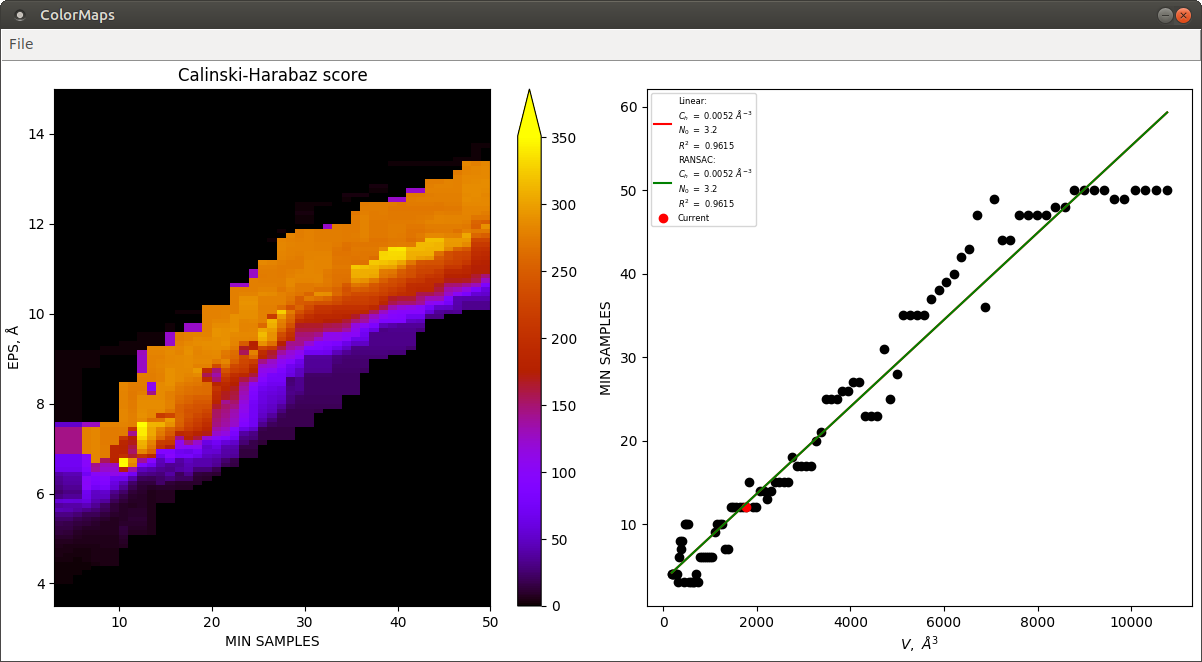
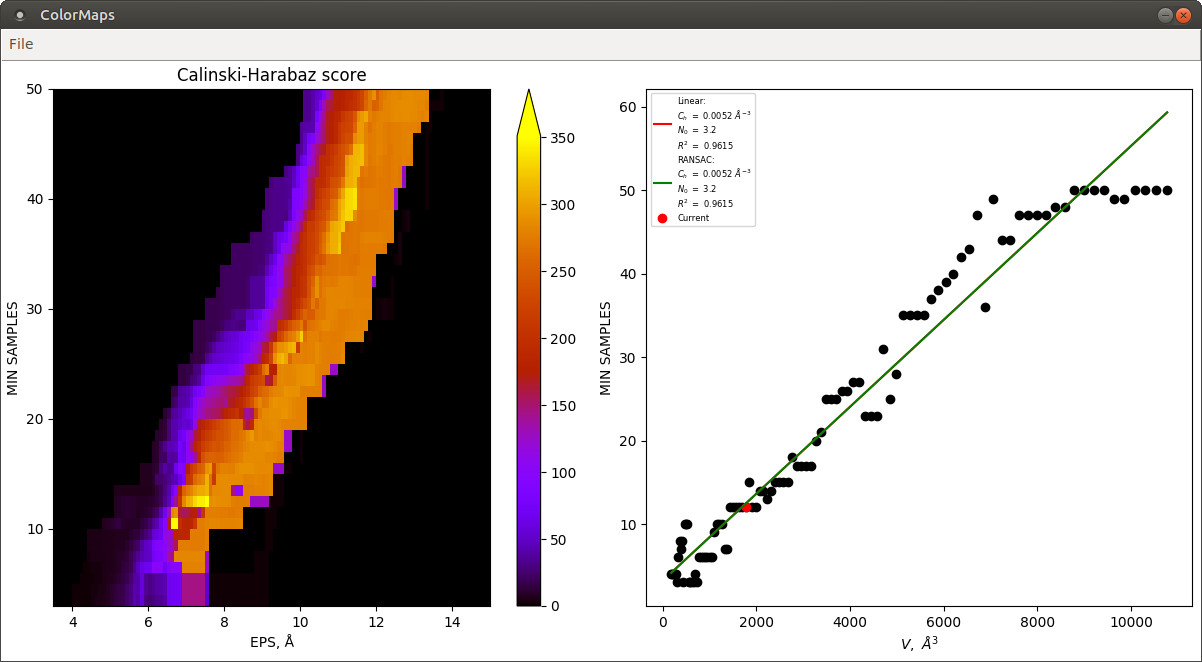
1) Auto select repr_cube or repr_cube_alt (based on R^2) 2) Swap axies on colormap 3) Cores content automatic display (on tkgui)

diff --git a/hydrocluster/ui/tkgui.py b/hydrocluster/ui/tkgui.py
@@ -208,7 +208,6 @@ class TkGui(tk.Tk):
         m.add_cascade(label='Options', menu=om)
         om.add_command(label='Plot grid', command=self.grid_set)
         om.add_command(label='Plot legend', command=self.legend_set)
-        om.add_command(label='Cores content', command=self.resi)
         om.add_command(label='Autotune colormap', command=self.colormap)
         om.add_command(label='Clear LOG', command=self.clean_txt)
         om.add_command(label='Open PyMol', command=self.open_pymol)
@@ -235,7 +234,7 @@ class TkGui(tk.Tk):
             if not askyesno('Warning!', "Very slow function!\nA you sure?"):
                 self.run_flag = False
                 return
-        if auto:
+        if auto and not load_state:
             try:
                 min_eps = float(self.ent_min_eps.get())
                 if min_eps < 0:
@@ -330,7 +329,7 @@ class TkGui(tk.Tk):
                 self.cls.n_clusters, self.cls.score, eps, min_samples, self.cls.metrics_name[self.cls.metric]))
             self.sca1.set(eps)
             self.sca2.set(min_samples)
-        else:
+        elif not auto and not load_state:
             self.cls.noise_filter = noise_filter
             eps = self.sca1.get()
             min_samples = self.sca2.get()
@@ -347,11 +346,20 @@ class TkGui(tk.Tk):
             showwarning('Warning!', 'Percent of noise = {:.2f} %'.format(self.cls.noise_percent()))
         self.tx.configure(state='normal')
         self.tx.insert(tk.END, ('Number of clusters = {0:d}\n{1:s} = {4:.3f}\nEPS = {2:.1f} \u212B\n'
-                                'MIN_SAMPLES = {3:d}\nPercent of noise = {5:.2f} %\n{6:s}\n').format(
-            self.cls.n_clusters, self.cls.metrics_name[self.cls.metric], eps, min_samples, self.cls.score,
+                                'MIN_SAMPLES = {3:d}\nPercent of noise = {5:.2f} %{6:s}\n').format(
+            self.cls.n_clusters, self.cls.metrics_name[self.cls.metric],
+            self.cls.eps, self.cls.min_samples, self.cls.score,
             self.cls.noise_percent(), (' !!WARNING!!!' if self.cls.noise_percent() > 30 else '')))
         self.tx.see(tk.END)
-        self.tx.configure(state='disabled')  # TODO: Может сразу выводить Core context?
+        dict_aa = self.cls.get_dict_aa()
+        if dict_aa:
+            for k, aa_list in dict_aa.items():
+                self.tx.configure(state='normal')
+                self.tx.insert(tk.END, '\n{:s} cluster No. {:d} contains: {:s}'.format(
+                    ("Core" if k[0] else "Uncore"), k[1],
+                    ", ".join(['{2:s}:{1:s}{0:d}'.format(*aac) for aac in aa_list])))
+            self.tx.insert(tk.END, '\n')
+        self.tx.configure(state='disabled')
         self.graph()
         self.run_flag = False
 
@@ -556,6 +564,7 @@ class TkGui(tk.Tk):
                        "No. of residues: {:d}\nMinimum distance = {:.3f} \u212B\n"
                        "Maximum distance = {:.3f} \u212B\nMean distance = {:.3f} \u212B\n\n".format(*parse_results))
         self.tx.see(tk.END)
+
         self.tx.configure(state='disabled')
         self.sca1.set(parse_results[1])
         self.ent_min_eps.delete(0, tk.END)
@@ -609,20 +618,6 @@ class TkGui(tk.Tk):
                 self.ent_max_min_samples.insert(0, '{:d}'.format(max_min_samples))
                 _, _, _, _, eps, min_samples = self.cls.states[0]
                 self.clean_txt()
-                self.tx.configure(state='normal')
-                self.tx.insert(tk.END, 'PTable: {:s}\n'.format(htable) +
-                               "No. of residues: {:d}\nMinimum distance = {:.3f} \u212B\n"
-                               "Maximum distance = {:.3f} \u212B\n"
-                               "Mean distance = {:.3f} \u212B\n\n".format(nor, mind, maxd, meand))
-                self.tx.insert(tk.END, ('Autoscan range EPS: {0:.2f} - {1:.2f} \u212B,'
-                                        'step EPS = {2:.2f} \u212B, min_samples: {3:d} - {4:d}...\n').format(
-                    min_eps, max_eps, step_eps, min_min_samples, max_min_samples))
-                self.tx.insert(tk.END, ('Number of clusters = {0:d}\n{1:s} = {4:.3f}\nEPS = {2:.1f} \u212B\n'
-                                        'MIN_SAMPLES = {3:d}\nPercent of noise = {5:.2f} %\n{6:s}\n').format(
-                    self.cls.n_clusters, self.cls.metrics_name[self.cls.metric], eps, min_samples, self.cls.score,
-                    self.cls.noise_percent(), (' !!WARNING!!!' if self.cls.noise_percent() > 30 else '')))
-                self.tx.see(tk.END)
-                self.tx.configure(state='disabled')
                 self.sca1.set(eps)
                 self.sca2.set(min_samples)
                 if self.cls.noise_filter:
@@ -743,28 +738,6 @@ class TkGui(tk.Tk):
         except AttributeError:
             pass
         self.graph()
-
-    def resi(self):
-        """
-
-        :return:
-        """
-        if self.run_flag:
-            showerror('Error!', 'The calculation is still running!')
-            return
-        dict_aa = self.cls.get_dict_aa()
-        if not dict_aa:
-            return
-        for k, aa_list in dict_aa.items():
-            self.tx.configure(state='normal')
-            self.tx.insert(tk.END, '\n{:s} cluster No. {:d} contains: {:s}'.format(
-                ("Core" if k[0] else "Uncore"), k[1], ", ".join(['{2:s}:{1:s}{0:d}'.format(*aac) for aac in aa_list])))
-            self.tx.see(tk.END)
-            self.tx.configure(state='disabled')
-        self.tx.configure(state='normal')
-        self.tx.insert(tk.END, '\n\n')
-        self.tx.see(tk.END)
-        self.tx.configure(state='disabled')
 
     def colormap(self):
         """

diff --git a/hydrocluster/core/pdbcluster.py b/hydrocluster/core/pdbcluster.py
@@ -212,7 +212,6 @@ def regr_cube(x: np.ndarray, y: np.ndarray, z: np.ndarray, z_correct):
 
 
 def regr_cube_alt(x: np.ndarray, y: np.ndarray, z: np.ndarray, z_correct):
-    # TODO: Придумать алгоритм выбора функций repr_cube или repr_cube_alt
     """
 
     :param z_correct:
@@ -221,6 +220,7 @@ def regr_cube_alt(x: np.ndarray, y: np.ndarray, z: np.ndarray, z_correct):
     :param z:
     :return:
     """
+    z = np.copy(z)
     z_uncorrect = ~z_correct
     z[z_uncorrect] = np.nan
     Y = np.array(y[~np.all(z_uncorrect, axis=0)], ndmin=2).T
@@ -398,11 +398,15 @@ class ClusterPdb:
                 z_min = -1.0
         else:
             z_min = 0
-        self.figs['colormap'] = (x, y, z, z_min)
+        self.figs['colormap'] = (y, x, z.copy().T, z_min)
         z_correct = np.array([(True if (len(set(data[3]))) > 1 else False) for data in colormap_data], dtype=bool)
         z_correct.shape = (y.size, x.size)
         V, N, = regr_cube(y, x, z, z_correct)
+        V_alt, N_alt = regr_cube_alt(y, x, z, z_correct)
         Nfit, C, B, R2 = lineaRegressor(V, N)
+        Nfit_alt, C_alt, B_alt, R2_alt = lineaRegressor(V_alt, N_alt)
+        if R2_alt > R2:
+            V, N, Nfit, C, B, R2 = V_alt, N_alt, Nfit_alt, C_alt, B_alt, R2_alt
         self.figs['linear'] = (V, N, Nfit, C, B, R2)
         try:
             self.figs['ransac'] = ransacRegressor(V, N)
@@ -665,16 +669,16 @@ class ClusterPdb:
         if not self.states:
             raise ValueError
         if self.figs is not None:
-            x, y, z, z_min = self.figs['colormap']
+            es, ms, z, z_min = self.figs['colormap']
         else:
             raise ValueError
         fig = Figure(figsize=(12, 6))
         ax1 = fig.add_subplot(121)
         ax1.set_title(self.metrics_name[self.metric])
-        ax1.set_ylabel('EPS, \u212B')
-        ax1.set_xlabel('MIN SAMPLES')
+        ax1.set_xlabel('EPS, \u212B')
+        ax1.set_ylabel('MIN SAMPLES')
         ax1.grid(grid_state)
-        pc1 = ax1.pcolor(x, y, z, cmap='gnuplot', vmin=z_min)  # TODO: Поменять x и y оси?
+        pc1 = ax1.pcolor(es, ms, z, cmap='gnuplot', vmin=z_min)
         fig.colorbar(pc1, ax=ax1, extend='max', extendfrac=0.1)
         V, N, Nfit, C, B, R2 = self.figs['linear']
         ax11 = fig.add_subplot(122)
@@ -802,7 +806,7 @@ class ClusterPdb:
             'n_clusters': self.n_clusters,
             'score': self.score,
             'eps': self.eps,
-            'min_samoles': self.min_samples,
+            'min_samples': self.min_samples,
             'metric': self.metric,
             'weight_array': self.weight_array,
             'aa_list': self.aa_list,
@@ -835,7 +839,7 @@ class ClusterPdb:
         self.parse_results = global_state['parse_results']
         self.auto_params = global_state['auto_params']
         self.score = global_state['score']
-        self.eps = global_state['eps'],
+        self.eps = global_state['eps']
         self.min_samples = global_state['min_samples']
         self.metric = global_state['metric']
         self.weight_array = global_state['weight_array']

diff --git a/README.md b/README.md
@@ -12,10 +12,10 @@ mmtf-python>=1.1.0
 msgpack>=0.5.6
 
 To easily browse through db files you will need a DB Browser for SQLite (<https://sqlitebrowser.org>).
-It is recommended to install Pymol molecular viewer (version: 1.7 - 1.9).
+It is recommended to install Pymol molecular viewer (version: 1.7+).
 
 
-### For MS Windows:
+##### For MS Windows:
 Use Anaconda (<https://anaconda.org>) for Windows - it includes majority of the dependencies required.
 But mmtf-python and msgpack not available on Anaconda - need to use pip.
 Define environment variable PYTHONIOENCODING to UTF-8.
